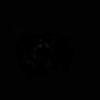
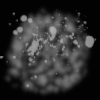
textured terrain

diff --git a/js/game/projection.js b/js/game/projection.js
@@ -9,16 +9,16 @@ var projection;
     let type;
     (function (type) {
         type[type["orthographic_top_down"] = 0] = "orthographic_top_down";
-        type[type["orthographic_dimetric"] = 1] = "orthographic_dimetric";
-        type[type["orthographic_isometric"] = 2] = "orthographic_isometric";
-        type[type["perspective_top_down"] = 3] = "perspective_top_down";
+        type[type["perspective_top_down"] = 1] = "perspective_top_down";
+        type[type["orthographic_dimetric"] = 2] = "orthographic_dimetric";
+        type[type["orthographic_isometric"] = 3] = "orthographic_isometric";
         type[type["perspective_isometric"] = 4] = "perspective_isometric";
         type[type["length"] = 5] = "length";
     })(type = projection.type || (projection.type = {}));
-    function string() {
+    function debug() {
         return `${type[projection.current]} (${projection.current + 1})`;
     }
-    projection.string = string;
+    projection.debug = debug;
     projection.current = type.orthographic_dimetric;
     var sun;
     function change() {
@@ -33,22 +33,24 @@ var projection;
                 orthographic();
                 projection.yaw.rotation.y = 0;
                 projection.pitch.rotation.x = 0;
-                projection.zoom = 10;
+                projection.zoom = 20;
                 break;
             case type.orthographic_dimetric:
                 orthographic();
                 projection.yaw.rotation.y = Math.PI / 4;
                 projection.pitch.rotation.x = Math.PI / 3;
-                projection.zoom = 10;
+                projection.zoom = 40;
                 break;
             case type.orthographic_isometric:
                 orthographic();
                 projection.yaw.rotation.y = Math.PI / 4;
                 projection.pitch.rotation.x = Math.PI / 4;
-                projection.zoom = 10;
+                projection.zoom = 40;
                 break;
             case type.perspective_top_down:
                 perspective();
+                projection.yaw.rotation.y = 0;
+                projection.pitch.rotation.x = 0;
                 projection.zoom = 1;
                 break;
             case type.perspective_isometric:
@@ -72,6 +74,7 @@ var projection;
     function start() {
         hooks.register('resize', resize);
         renderer.renderer.setClearColor('darkgrey');
+        renderer.ambient.color.copy(new THREE.Color('#777'));
         // make the yaw, pitch
         projection.zoom = 10;
         projection.yaw = new THREE.Group();
@@ -86,9 +89,11 @@ var projection;
         change();
         projection.pitch.add(renderer.camera);
         // add the sun
-        sun = new THREE.DirectionalLight('white', 0.5);
-        sun.position.set(-10, 10, -10);
+        sun = new THREE.DirectionalLight('white', 1);
+        sun.position.set(5, 10, 7.5);
+        sun.updateMatrix();
         sun.target.position.set(0, 0, 0);
+        sun.target.updateMatrix();
         renderer.scene.add(sun);
         renderer.scene.add(sun.target);
     }

diff --git a/src/game/projection.ts b/src/game/projection.ts
@@ -12,14 +12,14 @@ namespace projection {
 
 	export enum type {
 		orthographic_top_down,
+		perspective_top_down,
 		orthographic_dimetric,
 		orthographic_isometric,
-		perspective_top_down,
 		perspective_isometric,
 		length
 	}
 
-	export function string() {
+	export function debug() {
 		return `${type[current]} (${current + 1})`;
 	}
 
@@ -43,22 +43,24 @@ namespace projection {
 				orthographic();
 				yaw.rotation.y = 0;
 				pitch.rotation.x = 0;
-				zoom = 10;
+				zoom = 20;
 				break;
 			case type.orthographic_dimetric:
 				orthographic();
 				yaw.rotation.y = Math.PI / 4;
 				pitch.rotation.x = Math.PI / 3;
-				zoom = 10;
+				zoom = 40;
 				break;
 			case type.orthographic_isometric:
 				orthographic();
 				yaw.rotation.y = Math.PI / 4;
 				pitch.rotation.x = Math.PI / 4;
-				zoom = 10;
+				zoom = 40;
 				break;
 			case type.perspective_top_down:
 				perspective();
+				yaw.rotation.y = 0;
+				pitch.rotation.x = 0;
 				zoom = 1;
 				break;
 			case type.perspective_isometric:
@@ -83,6 +85,7 @@ namespace projection {
 	export function start() {
 		hooks.register('resize', resize);
 		renderer.renderer.setClearColor('darkgrey');
+		renderer.ambient.color.copy(new THREE.Color('#777'));
 		// make the yaw, pitch
 		zoom = 10;
 		yaw = new THREE.Group();
@@ -97,9 +100,11 @@ namespace projection {
 		change();
 		pitch.add(renderer.camera);
 		// add the sun
-		sun = new THREE.DirectionalLight('white', 0.5);
-		sun.position.set(-10, 10, -10);
+		sun = new THREE.DirectionalLight('white', 1);
+		sun.position.set(5, 10, 7.5);
+		sun.updateMatrix();
 		sun.target.position.set(0, 0, 0);
+		sun.target.updateMatrix();
 		renderer.scene.add(sun);
 		renderer.scene.add(sun.target);
 	}

diff --git a/js/game/terrain.js b/js/game/terrain.js
@@ -12,7 +12,6 @@ var terrain;
     }
     terrain.get = get;
     function simple_populate() {
-        console.log('simple populate');
         for (let y = 0; y < 400; y++) {
             for (let x = 0; x < 400; x++) {
                 let til = new tile([200 - x, 200 - y]);
@@ -39,8 +38,12 @@ var terrain;
                 return;
             let pixel = game_manager.gheightmap.pixel(this.wpos);
             let normalize = pixel.normalize();
+            let height = normalize[0];
+            height *= 60;
+            height = Math.floor(height);
+            height /= 60;
             //console.log('height pixel', normalize[0]);
-            this.cube.scale.set(1, 1 + (normalize[0] * 10), 1);
+            this.cube.scale.set(1, 1 + (height * 5), 1);
             this.cube.updateMatrix();
         }
         create() {
@@ -57,7 +60,8 @@ var terrain;
             this.geometry = new THREE.BoxGeometry(size, height, size);
             this.material = new THREE.MeshPhongMaterial({
                 wireframe: false,
-                color: this.sector?.color || new THREE.Color().fromArray(color)
+                color: this.sector?.color || new THREE.Color().fromArray(color),
+                map: renderer.load_image('./tex/grass64x.png')
             });
             this.cube = new THREE.Mesh(this.geometry, this.material);
             this.cube.frustumCulled = false;

diff --git a/src/game/terrain.ts b/src/game/terrain.ts
@@ -13,8 +13,6 @@ namespace terrain {
 	}
 
 	export function simple_populate() {
-		console.log('simple populate');
-
 		for (let y = 0; y < 400; y++) {
 			for (let x = 0; x < 400; x++) {
 				let til = new tile([200 - x, 200 - y]);
@@ -41,9 +39,12 @@ namespace terrain {
 				return;
 			let pixel = game_manager.gheightmap.pixel(this.wpos);
 			let normalize = pixel.normalize();
+			let height = normalize[0];
+			height *= 60;
+			height = Math.floor(height);
+			height /= 60;
 			//console.log('height pixel', normalize[0]);
-
-			this.cube.scale.set(1, 1 + (normalize[0] * 10), 1);
+			this.cube.scale.set(1, 1 + (height * 5), 1);
 			this.cube.updateMatrix();
 		}
 		override create() {
@@ -60,7 +61,8 @@ namespace terrain {
 			this.geometry = new THREE.BoxGeometry(size, height, size);
 			this.material = new THREE.MeshPhongMaterial({
 				wireframe: false,
-				color: this.sector?.color || new THREE.Color().fromArray(color)
+				color: this.sector?.color || new THREE.Color().fromArray(color),
+				map: renderer.load_image('./tex/grass64x.png')
 			});
 			this.cube = new THREE.Mesh(this.geometry, this.material);
 			this.cube.frustumCulled = false;

diff --git a/src/renderer.ts b/src/renderer.ts
@@ -5,7 +5,7 @@ import { THREE } from "./mall.js";
 
 namespace renderer {
 	export var ndpi = 1
-	
+
 	const ad_hoc = 0
 
 	export var renderer, scene, camera, clock, ambient, game_objects
@@ -31,7 +31,7 @@ namespace renderer {
 		console.log(' boot renderer ');
 
 		console.log('THREE.Object3D.DEFAULT_MATRIX_AUTO_UPDATE', THREE.Object3D.DEFAULT_MATRIX_AUTO_UPDATE);
-		
+
 		THREE.Object3D.DEFAULT_MATRIX_AUTO_UPDATE = false;
 
 		ambient = new THREE.AmbientLight(0xffffff);
@@ -48,9 +48,11 @@ namespace renderer {
 
 		scene.add(game_objects);
 
-		renderer = new THREE.WebGLRenderer({ antialias: false });
+		renderer = new THREE.WebGLRenderer({ antialias: true });
 		renderer.setSize(1024, 768);
 		renderer.setClearColor('grey');
+		renderer.shadowMap.enabled = true;
+		renderer.shadowMap.type = THREE.PCFSoftShadowMap; // default THREE.PCFShadowMap
 
 		document.getElementById('webgl')!.append(renderer.domElement);
 

diff --git a/js/renderer.js b/js/renderer.js
@@ -32,9 +32,11 @@ var renderer;
         //game_objects.rotation.set(Math.PI / 6, Math.PI / 4, 0);
         //game_objects.updateMatrix();
         renderer_1.scene.add(renderer_1.game_objects);
-        renderer_1.renderer = new THREE.WebGLRenderer({ antialias: false });
+        renderer_1.renderer = new THREE.WebGLRenderer({ antialias: true });
         renderer_1.renderer.setSize(1024, 768);
         renderer_1.renderer.setClearColor('grey');
+        renderer_1.renderer.shadowMap.enabled = true;
+        renderer_1.renderer.shadowMap.type = THREE.PCFSoftShadowMap; // default THREE.PCFShadowMap
         document.getElementById('webgl').append(renderer_1.renderer.domElement);
         window.addEventListener('resize', resize);
         resize();

diff --git a/js/game/view_needs_rename.js b/js/game/view_needs_rename.js
@@ -76,7 +76,7 @@ export class view_needs_rename {
     }
     print() {
         stats.innerHTML = `
-			${pts2.to_string_fixed(this.rpos)}: ${projection.zoom}<br /> / ${projection.string()} (tap f2)<br />
+			${pts2.to_string_fixed(this.rpos)}: ${projection.zoom}<br /> / ${projection.debug()} (tap f2)<br />
 			terrains ${objs.tiles[0]} / ${objs.tiles[1]}<br />
 			sectors ${lod.ggrid.shown.length} / ${lod.sector.total}
 		`;

diff --git a/src/game/view_needs_rename.ts b/src/game/view_needs_rename.ts
@@ -84,7 +84,7 @@ export class view_needs_rename {
 	}
 	print() {
 		stats.innerHTML = `
-			${pts2.to_string_fixed(this.rpos)}: ${projection.zoom}<br /> / ${projection.string()} (tap f2)<br />
+			${pts2.to_string_fixed(this.rpos)}: ${projection.zoom}<br /> / ${projection.debug()} (tap f2)<br />
 			terrains ${objs.tiles[0]} / ${objs.tiles[1]}<br />
 			sectors ${lod.ggrid.shown.length} / ${lod.sector.total}
 		`;

diff --git a/index.html b/index.html
@@ -59,7 +59,7 @@
 			top: 0;
 			right: 0;
 			padding: 5px;
-			color: green;
+			color: white;
 			font-family: 'Single Day';
 			font-size: 18px;
 		}
